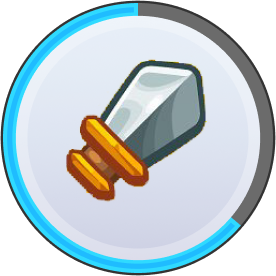
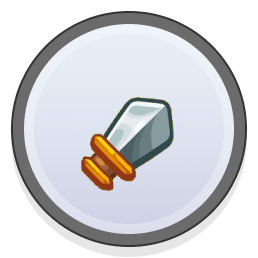
debag

diff --git a/src/components/Layout/Layout.tsx b/src/components/Layout/Layout.tsx
@@ -1,11 +1,12 @@
-import { useCallback, useEffect, useState } from "react";
+import { useEffect, useState } from "react";
 import Canvas from "../Canvas/Canvas";
 import style from "./Layout.module.scss";
-import { generateRandomPosition } from "../../utils/getRandomCoordinate";
-import { drawCircle, drawCastle, isCircleReachedSquare } from "../../utils/drawCanvas";
-import imageUrl1 from '../../assets/img/casle-lvl-1.png'
-import imageUrl2 from '../../assets/img/btn-tap.png'
-interface circlePositionProps {
+import { addCircle, drawCircle, drawProgressBar, isCircleReachedSquare } from "../../utils/drawCanvas";
+import imageCasltes from "../../assets/img/casle-lvl-1.png";
+import imageBtns from "../../assets/img/btn-tap.png";
+import useImage from "../../utils/useImage";
+
+export interface circlePositionProps {
   x: number;
   y: number;
   dx: number;
@@ -18,71 +19,101 @@ function Layout() {
   const [circlePosition, setCirclePosition] = useState<circlePositionProps[]>(
     []
   );
-
-  const [imageCastle, setImageCastle] = useState<HTMLImageElement | null>(null);
-  const [imageBtn, setImageBtn] = useState<HTMLImageElement | null>(null);
-
-  useEffect(() => {
-    const imgCastle = new Image();
-    const imgBtn = new Image();
-    imgCastle.src = imageUrl1;
-    imgBtn.src = imageUrl2;
-    imgCastle.onload = () => {
-      setImageCastle(imgCastle);
-    };
-    imgBtn.onload = () => {
-      setImageBtn(imageBtn);
-    };
-  }, []);
-
-  const addCircle = useCallback((speedRun: number) => {
-    const position = generateRandomPosition(100, 420, 600, 750);
-    const dx = (513 / 2 - position.x) / speedRun;
-    const dy = (963 / 2.5 - position.y) / speedRun;
-    setCirclePosition((prevPositions) => [
-      ...prevPositions,
-      { ...position, dx, dy },
-    ]);
-  }, []);
+  const [btnScale, setBtnScale] = useState(1);
+  const imageCastle = useImage(imageCasltes);
+  const imageBtn = useImage(imageBtns);
+  
 
   function draw(ctx: CanvasRenderingContext2D, frameCount: number) {
     ctx.clearRect(0, 0, ctx.canvas.width, ctx.canvas.height);
     const centerX = ctx.canvas.width / 2;
-    const centerY = ctx.canvas.height / 2.5;
-    const size = ctx.canvas.width * 0.2;
-    const squareX = ctx.canvas.width / 3.9 - size / 2;
-    const squareY = ctx.canvas.height / 5 - size;
+    const centerY = ctx.canvas.height / 2;
 
-    const buttonX = ctx.canvas.width / 2 - size;;
-    const buttonY = ctx.canvas.height / 3 - size;
-    if (imageCastle) {
-      ctx.drawImage(imageCastle, squareX, squareY, size, size);
-      
-    }
-    if(imageBtn) {
-      ctx.drawImage(imageBtn, buttonX, buttonY, size, size);
-    }
+    const sizeCastle = ctx.canvas.width * 0.3;
+    const squareX = ctx.canvas.width / 4 - sizeCastle / 2;
+    const squareY = ctx.canvas.height / 3.6 - sizeCastle;
+
+    const sizeBtn = ctx.canvas.width * 0.23;
+    const buttonX = ctx.canvas.width / 4 - sizeBtn / 2;
+    const buttonY = ctx.canvas.height / 2.26 - sizeBtn;
+
+    const sizeText = ctx.canvas.width * 0.02;
+    const textX = ctx.canvas.width / 2.7 - sizeBtn / 2;
+    const textY = ctx.canvas.height / 2.087 - sizeBtn;
 
     circlePosition.map((position, index) => {
       position.x += position.dx;
       position.y += position.dy;
 
       // Проверяем, достиг ли круг квадрата
-      if (isCircleReachedSquare(position, centerX, centerY, size)) {
+      if (isCircleReachedSquare(position, centerX, centerY, sizeCastle)) {
         setScore((prevScore) => prevScore + 1);
         setCirclePosition((prevPositions) =>
           prevPositions.filter((_, i) => i !== index)
         );
       } else {
-        drawCircle(ctx, position.x, position.y, 10, "red");//создаём круг
+      drawCircle(ctx, position.x, position.y, 10, "red");
       }
     });
+
+    if (imageCastle) {
+      ctx.drawImage(imageCastle, squareX, squareY, sizeCastle, sizeCastle);
+    }
+    
+    if (imageBtn) {
+      const progress = numCircles / 50; //сюда передавать максс энергию
+      ctx.save();
+      ctx.translate(buttonX + sizeBtn / 2, buttonY + sizeBtn / 2);
+      ctx.scale(btnScale, btnScale);
+      ctx.drawImage(imageBtn, -sizeBtn / 2, -sizeBtn / 2, sizeBtn, sizeBtn);
+      ctx.restore();
+      ctx.save();
+      ctx.translate(buttonX + sizeBtn / 2, buttonY + sizeBtn / 2);
+      ctx.scale(btnScale, btnScale);
+      drawProgressBar(ctx, 0, 0, sizeBtn / 2.33, progress);
+      ctx.restore();
+    }
+    
+    ctx.textAlign = "center";
+    ctx.font = `${sizeText}px Arial`;
+    ctx.fillStyle = "black";
+    ctx.fillText(`${numCircles} / 50`, textX, textY);
   }
 
-  const handleCircle = useCallback(() => {
-    if (numCircles > 0) {
-      addCircle(100);
-      setNumCircles((prev) => prev - 1);
+  useEffect(() => {
+    const canvas = document.querySelector("canvas");
+    if (canvas) {
+      const handleClick = (e: MouseEvent) => {
+        const centerX = canvas.width / 2;
+        const centerY = canvas.height / 2;
+        const rect = canvas.getBoundingClientRect();
+        const x = e.clientX - rect.left;
+        const y = e.clientY - rect.top;
+        const sizeBtn = canvas.width * 0.23;
+        const buttonX = canvas.width / 4 - sizeBtn / 2;
+        const buttonY = canvas.height / 2.26 - sizeBtn;
+        if (
+          x >= buttonX &&
+          x <= buttonX + sizeBtn &&
+          y >= buttonY &&
+          y <= buttonY + sizeBtn
+        ) {
+          
+          if (numCircles > 0) {
+            const newCircle = addCircle(100, centerX, centerY);
+            setCirclePosition((prevPositions) => [...prevPositions, newCircle]);
+            setNumCircles((prev) => prev - 1);
+            setBtnScale(0.9);
+            const timerId = setTimeout(() => setBtnScale(1), 100);
+            return () => clearTimeout(timerId)
+          }
+           
+        }
+      };
+      canvas.addEventListener("click", handleClick);
+      return () => {
+        canvas.removeEventListener("click", handleClick);
+      };
     }
   }, [numCircles, addCircle]);
 
@@ -92,9 +123,6 @@ function Layout() {
       <main className={style.main}>
         <div>{score} Монеты</div>
         <Canvas draw={draw} />
-        <button className={style.btnUnit} onClick={handleCircle}>
-          Клик {numCircles}
-        </button>
       </main>
       <footer></footer>
     </>

diff --git a/src/utils/drawCanvas.ts b/src/utils/drawCanvas.ts
@@ -1,3 +1,5 @@
+import { generateRandomPosition } from "./getRandomCoordinate";
+
 // Функция для получения размера канваса
 export function getCanvasSize(canvas: HTMLCanvasElement): { width: number, height: number } {
     return { width: canvas.width, height: canvas.height };
@@ -11,14 +13,25 @@ export function drawCircle(context: CanvasRenderingContext2D, x: number, y: numb
     context.fill();
 }
 
+export function addCircle(
+    speedRun: number,
+    canvasW: number,
+    canvasH: number,
+  ) {
+    const position = generateRandomPosition(30, canvasW - 30, canvasH / 1.6, canvasH - 100);
+    const dx = (canvasW / 2 - position.x) / speedRun;
+    const dy = (canvasH / 2.5 - position.y) / speedRun;
+    return { ...position, dx, dy };
+  }
+
 // Функция для рисования квадрата
-export function drawCastle(context: CanvasRenderingContext2D, x: number, y: number, size: number, imageUrl1: string): void {
-    const img = new Image()
-    img.src = imageUrl1;
-    img.onload = () => {
-        context.drawImage(img, x, y, size, size)
-    }
-}
+// export function drawCastle(context: CanvasRenderingContext2D, x: number, y: number, size: number, imageUrl1: string): void {
+//     const img = new Image()
+//     img.src = imageUrl1;
+//     img.onload = () => {
+//         context.drawImage(img, x, y, size, size)
+//     }
+// }
 
 interface Position {
     x: number;
@@ -34,3 +47,14 @@ export function isCircleReachedSquare(
     const inYRange = position.y >= centerY / 2 - size && position.y <= centerY / 2;
     return inXRange && inYRange;
 };
+
+export function drawProgressBar(ctx: CanvasRenderingContext2D, x:number, y:number, size:number, progress: number) {
+    const startAngle = 1.5 * Math.PI; // начало с верхней части круга
+    const progressEndAngle = startAngle - 2 * Math.PI * progress; // конец в зависимости от прогресса
+  
+    ctx.beginPath();
+    ctx.arc(x, y, size, startAngle, progressEndAngle, true);
+    ctx.lineWidth = 10; // ширина полосы
+    ctx.strokeStyle = '#1fbcff'; // цвет полосы
+    ctx.stroke();
+  }

diff --git a/src/utils/useImage.ts b/src/utils/useImage.ts
@@ -1,0 +1,17 @@
+import { useEffect, useState } from "react";
+
+const useImage = (src: string) => {
+    const [image, setImage] = useState<HTMLImageElement | null>(null);
+  
+    useEffect(() => {
+      const img = new Image();
+      img.src = src;
+      img.onload = () => {
+        setImage(img);
+      };
+    }, [src]);
+  
+    return image;
+  };
+
+  export default useImage
